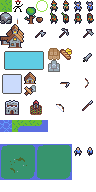
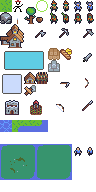
wood wall

Changed region(s): [[0.375, 0.375, 0.5, 0.4375]]

diff --git a/src/js/main.js b/src/js/main.js
@@ -43,22 +43,23 @@ function gameInit() {
 		}),
 	);
 	GLOBAL.buildMenu.push(
-		new Button_Build(128, 96, tile(50), () => {
+		new Button_Build(128, 96, tile(50), 6, 4, 0, () => {
 			GLOBAL.state = DEFS.STATES.BUILD_HOUSE;
 		}),
-		new Button_Build(256, 96, tile(vec2(24, 96), vec2(24)), () => {
+		new Button_Build(256, 96, tile(vec2(24, 96), vec2(24)), 6, 4, 0, () => {
 			GLOBAL.state = DEFS.STATES.BUILD_FARM;
 		}),
-		new Button_Build(384, 96, tile(vec2(0, 96), vec2(24)), () => {
+		new Button_Build(384, 96, tile(51), 2, 1, 0, () => {
+			GLOBAL.state = DEFS.STATES.BUILD_WALL;
+		}),
+		new Button_Build(512, 96, tile(vec2(0, 96), vec2(24)), 6, 10, 0, () => {
 			GLOBAL.state = DEFS.STATES.BUILD_BARRACKS;
 		}),
 	);
 	GLOBAL.townHallMenu.push(
 		new Button_CreateWorker(128, 96, tile(4), () => {
 			GLOBAL.food -= 5 * GLOBAL.units.length;
-			const unit = new Unit_Worker(DEFS.HOME.add(vec2(- 1 + Math.random() * 2, - 1)));
-			unit.selected = true;
-			GLOBAL.units.push(unit);
+			GLOBAL.units.push(new Unit_Worker(DEFS.HOME.add(vec2(- 1 + Math.random() * 2, - 1))));
 		})
 	);
 
@@ -71,7 +72,7 @@ function gameInit() {
 }
 function gameUpdate() {
 
-	if (GLOBAL.state == DEFS.STATES.BUILD_HOUSE || GLOBAL.state == DEFS.STATES.BUILD_BARRACKS  || GLOBAL.state == DEFS.STATES.BUILD_FARM) {
+	if (GLOBAL.state == DEFS.STATES.BUILD_HOUSE || GLOBAL.state == DEFS.STATES.BUILD_BARRACKS  || GLOBAL.state == DEFS.STATES.BUILD_FARM || GLOBAL.state == DEFS.STATES.BUILD_WALL) {
 		// building
 
 		if (mouseIsDown(0)) {
@@ -87,6 +88,9 @@ function gameUpdate() {
 				}
 				else if (GLOBAL.state == DEFS.STATES.BUILD_FARM) {
 					GLOBAL.buildings.push(new Building_Farm(vec2(x, y)));
+				}
+				else if (GLOBAL.state == DEFS.STATES.BUILD_WALL) {
+					GLOBAL.buildings.push(new Building_Wall(vec2(x, y)));
 				}
 				else {
 					GLOBAL.buildings.push(new Building_House(vec2(x, y)));
@@ -120,7 +124,7 @@ function gameUpdate() {
 		}
 
 		
-		GLOBAL.warriorTimer.set(30);
+		GLOBAL.warriorTimer.set(90);
 		GLOBAL.warriorIndex++;
 	}
 

diff --git a/src/js/ui/renderUI.js b/src/js/ui/renderUI.js
@@ -1,6 +1,10 @@
 function gameRenderPost() {
 	
-	if (GLOBAL.state == DEFS.STATES.BUILD_HOUSE || GLOBAL.state == DEFS.STATES.BUILD_BARRACKS || GLOBAL.state == DEFS.STATES.BUILD_FARM) {
+	if (GLOBAL.state == DEFS.STATES.BUILD_HOUSE
+		|| GLOBAL.state == DEFS.STATES.BUILD_BARRACKS
+		|| GLOBAL.state == DEFS.STATES.BUILD_FARM
+		|| GLOBAL.state == DEFS.STATES.BUILD_WALL
+	) {
 		// draw temp house
 
 		const x = Math.round(mousePos.x);
@@ -19,10 +23,14 @@ function gameRenderPost() {
 			size = vec2(2);
 			tileInfo = tile(vec2(0, 96), vec2(24));
 		}
+		else if (GLOBAL.state == DEFS.STATES.BUILD_WALL) {
+			tileInfo = tile(51);
+		}
 		else if (GLOBAL.state == DEFS.STATES.BUILD_FARM) {
 			size = vec2(2);
 			tileInfo = tile(vec2(24, 96), vec2(24));
 		}
+		// placing the building
 		drawTile(
 			vec2(x, y),
 			size,

diff --git a/src/js/objects/PlayerUnit.js b/src/js/objects/PlayerUnit.js
@@ -95,7 +95,12 @@ class PlayerUnit extends Unit {
 					// TODO: check if building still exists
 					const built = this.intentionTarget.build(1);
 					zzfx(...[, .03, 405, , , 0, 3, .1, 8, , , , , .1, 27, .4, .04, .44, .01]);
-					built && this.takeOrder();					
+					if (this.intentionTarget.needsBuilt == 0 && this.intentionTarget instanceof Building_Farm) {
+						this.takeOrder('farm', this.intentionTarget);
+					}
+					else {
+						built && this.takeOrder();
+					}
 				}
 
 				if (this.wood + this.stone + this.food>= 3) {

diff --git a/src/js/ui/Button_Build.js b/src/js/ui/Button_Build.js
@@ -1,12 +1,12 @@
 
 class Button_Build extends Button {
 
-	constructor(x, y, tileInfo, onClick) {
+	constructor(x, y, tileInfo, wood, stone, food, onClick) {
 
 		super(x, y, tileInfo, onClick);
 
-		this.requiresWood = 6;
-		this.requiresStone = 4;
+		this.requiresWood = wood;
+		this.requiresStone = stone;
 
 	}
 

diff --git a/src/js/objects/Building_Wall.js b/src/js/objects/Building_Wall.js
@@ -1,0 +1,18 @@
+
+class Building_Wall extends Building {
+
+	constructor(pos) {
+
+		super(pos, vec2(1), tile(51));
+
+		this.popSupport = 2;
+
+		GLOBAL.mapGrid[pos.y][pos.x] = this;
+
+		GLOBAL.wood -= 2;
+		GLOBAL.stone -= 1;
+
+	}
+
+
+}

diff --git a/src/js/DEFS.js b/src/js/DEFS.js
@@ -15,6 +15,7 @@ const DEFS = {
 		BUILD_BARRACKS: 4,
 		TRAIN_MENU: 5,
 		BUILD_FARM: 6,
+		BUILD_WALL: 7,
 	},
 
 	WARRIORS: [
